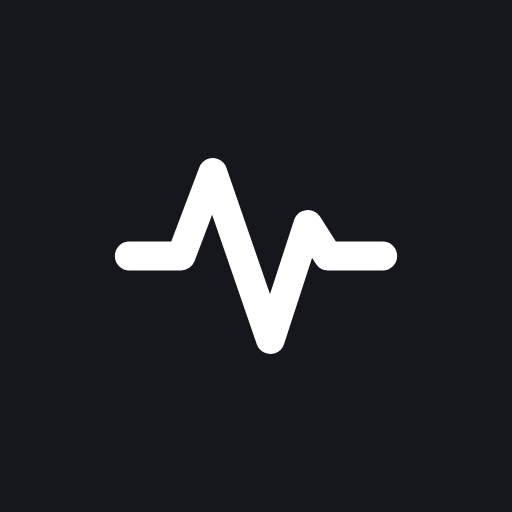
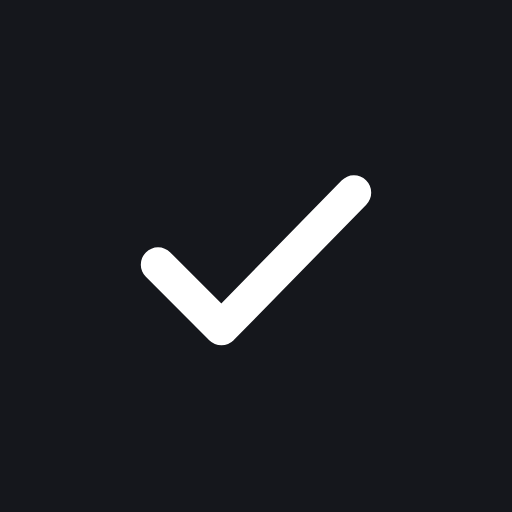
mantenimiento: the maintenance app is now Esmero, at esmero.dosbuhos.com
Eric's call: "Pulso" goes to the reservations and sales app. Same Worker, database and data; new name, check-mark
icon, and address. pulso.dosbuhos.com is released here and picked up by the Hub for Reservaciones in the next commit.
Internal cache and outbox names follow the new name (nobody has the app installed yet).

Claude-Session: https://claude.ai/code/session_018irprYV8fJdeQv9A9bMB2q

Changed region(s): [[0.2188, 0.3125, 0.5938, 0.6875], [0.5625, 0.3438, 0.7812, 0.5312]]

diff --git a/mantenimiento/public/core.js b/mantenimiento/public/core.js
@@ -1,4 +1,4 @@
-/* Pulso, el mantenimiento de Dos Búhos — shared pieces (plain JS, no build step). The planner is in planner.js, the other screens in app.js and more.js. */
+/* Esmero, el mantenimiento de Dos Búhos — shared pieces (plain JS, no build step). The planner is in planner.js, the other screens in app.js and more.js. */
 'use strict';
 
 const $ = (s, el = document) => el.querySelector(s);
@@ -119,8 +119,8 @@ function dueInfo(t) {
 const tag = (name, color, extra = '') => `<span class="tag c-${esc(color || 'grey')}" ${extra}>${esc(name)}</span>`;
 // Where a pendiente is: its area, or the place someone wrote because it was not on the list.
 const areaTag = (t) => (t.area_name ? tag(t.area_name, t.area_color) : t.place ? tag(t.place, 'grey') : '');
-// The address people are sent to. On the live hosts it is always Pulso's own; anywhere else (a laptop) it is where you are.
-const APP_URL = /(^|\.)dosbuhos\.com$|\.workers\.dev$/.test(location.hostname) ? 'https://pulso.dosbuhos.com' : location.origin;
+// The address people are sent to. On the live hosts it is always Esmero's own; anywhere else (a laptop) it is where you are.
+const APP_URL = /(^|\.)dosbuhos\.com$|\.workers\.dev$/.test(location.hostname) ? 'https://esmero.dosbuhos.com' : location.origin;
 const avatar = (name, cls = '') => `<span class="av ${cls}" aria-hidden="true">${esc(initials(name))}</span>`;
 // Facts that sit side by side (a phone and an email): each in its own span, spaced by the row.
 const bits = (arr) => arr.filter(Boolean).map((x) => `<span>${esc(x)}</span>`).join('');
@@ -167,7 +167,7 @@ async function api(method, path, data) {
   }
   let out = {};
   try { out = await res.json(); } catch { /* empty */ }
-  if (method === 'GET' && res.ok) { OFF.seen(res.headers.get('x-pulso-offline') === '1'); out = OFF.overlay(path, out); }
+  if (method === 'GET' && res.ok) { OFF.seen(res.headers.get('x-esmero-offline') === '1'); out = OFF.overlay(path, out); }
   if (res.status === 401 && path !== '/enter') {
     S.user = null;
     showEnter();
@@ -492,7 +492,7 @@ function drawNav(tab) {
     NAV.className = 'nav dtop';
     NAV.innerHTML = `<div class="brandrow">
         ${cal ? `<button type="button" class="ibtn" data-go="panel" aria-pressed="${!!P.panel}" aria-label="${lists}" title="${lists}">${ic('side')}</button>` : ''}
-        <a class="dbrand" href="#/" data-tab aria-label="Pulso: ir a hoy">${ic('pulse')}<span>Pulso</span></a></div>
+        <a class="dbrand" href="#/" data-tab aria-label="Esmero: ir a hoy">${ic('esmero')}<span>Esmero</span></a></div>
       <div class="zoom" role="group" aria-label="Vista">
         <a href="#/" data-tab ${tab === 'dia' ? 'aria-current="page"' : ''}>Día</a><a href="#/semana" data-tab ${tab === 'semana' ? 'aria-current="page"' : ''}>Semana</a><a href="#/mes" data-tab ${tab === 'mes' ? 'aria-current="page"' : ''}>Mes</a></div>
       ${cal ? `<div class="steps"><button type="button" class="ibtn" data-step="-1" aria-label="${unit} anterior">${ic('back')}</button>

diff --git a/mantenimiento/public/index.html b/mantenimiento/public/index.html
@@ -9,15 +9,15 @@
   <meta name="color-scheme" content="light dark">
   <meta name="mobile-web-app-capable" content="yes">
   <meta name="apple-mobile-web-app-capable" content="yes">
-  <meta name="apple-mobile-web-app-title" content="Pulso">
+  <meta name="apple-mobile-web-app-title" content="Esmero">
   <meta name="apple-mobile-web-app-status-bar-style" content="default">
   <meta name="format-detection" content="telephone=no">
-  <title>Pulso | Dos Búhos</title>
+  <title>Esmero | Dos Búhos</title>
   <link rel="manifest" href="/manifest.webmanifest">
   <link rel="icon" href="/icon.svg" type="image/svg+xml">
   <link rel="icon" href="/icon-192.png" sizes="192x192" type="image/png">
   <link rel="apple-touch-icon" href="/icon-180.png">
-  <link rel="stylesheet" href="/app.css?v=32">
+  <link rel="stylesheet" href="/app.css?v=33">
   <link rel="preload" href="/fonts/geist-500.woff2" as="font" type="font/woff2" crossorigin>
   <link rel="preload" href="/fonts/geist-700.woff2" as="font" type="font/woff2" crossorigin>
 </head>
@@ -34,7 +34,7 @@
       <symbol id="i-grid" viewBox="0 0 24 24"><rect x="4" y="4" width="6.5" height="6.5" rx="1.5"/><rect x="13.5" y="4" width="6.5" height="6.5" rx="1.5"/><rect x="4" y="13.5" width="6.5" height="6.5" rx="1.5"/><rect x="13.5" y="13.5" width="6.5" height="6.5" rx="1.5"/></symbol>
       <symbol id="i-inbox" viewBox="0 0 24 24"><path d="M22 12h-6l-2 3h-4l-2-3H2"/><path d="M5.5 5.1 2 12v6a2 2 0 0 0 2 2h16a2 2 0 0 0 2-2v-6l-3.5-6.9A2 2 0 0 0 16.8 4H7.2a2 2 0 0 0-1.7 1.1z"/></symbol>
       <symbol id="i-side" viewBox="0 0 24 24"><rect x="3" y="4" width="18" height="16" rx="2.5"/><path d="M9 4v16"/></symbol>
-      <symbol id="i-pulse" viewBox="0 0 24 24"><path d="M2 12h4l2.5-6.5 4.5 13 3-9 1.5 2.5H22"/></symbol>
+      <symbol id="i-esmero" viewBox="0 0 24 24"><path d="M4 12.5l5 5L20 6.5"/></symbol>
       <symbol id="i-minus" viewBox="0 0 24 24"><path d="M5 12h14"/></symbol>
       <symbol id="i-plus" viewBox="0 0 24 24"><path d="M5 12h14M12 5v14"/></symbol>
       <symbol id="i-x" viewBox="0 0 24 24"><path d="M18 6 6 18M6 6l12 12"/></symbol>
@@ -79,10 +79,10 @@
       <symbol id="i-shield" viewBox="0 0 24 24"><path d="M12 22s8-4 8-10V5l-8-3-8 3v7c0 6 8 10 8 10z"/></symbol>
     </defs>
   </svg>
-  <script src="/core.js?v=32"></script>
-  <script src="/offline.js?v=32"></script>
-  <script src="/app.js?v=32"></script>
-  <script src="/planner.js?v=32"></script>
-  <script src="/more.js?v=32"></script>
+  <script src="/core.js?v=33"></script>
+  <script src="/offline.js?v=33"></script>
+  <script src="/app.js?v=33"></script>
+  <script src="/planner.js?v=33"></script>
+  <script src="/more.js?v=33"></script>
 </body>
 </html>

diff --git a/mantenimiento/public/sw.js b/mantenimiento/public/sw.js
@@ -1,16 +1,16 @@
-/* Pulso — service worker. It lets the app open and be read with no signal (Adrián's garden has little):
+/* Esmero — service worker. It lets the app open and be read with no signal (Adrián's garden has little):
    - the app itself (page, styles, scripts, fonts, icons) is kept on the phone and served from there;
    - every GET to /api goes to the network first and, when there is no answer in a few seconds, gets the last copy kept;
-     a copy served that way carries `x-pulso-offline: 1` so the page can say it is showing what it had;
+     a copy served that way carries `x-esmero-offline: 1` so the page can say it is showing what it had;
    - photos never change once uploaded (each has its own id), so once seen they are served from the phone.
    Writes (reports, changes, notes, photos) are not handled here: the page keeps them in its outbox (offline.js) and
    sends them when there is signal. Bump V with the ?v= in index.html. */
-const V = 'pulso-32';
-const SHELL = ['/', '/app.css?v=32', '/core.js?v=32', '/offline.js?v=32', '/app.js?v=32', '/planner.js?v=32', '/more.js?v=32',
+const V = 'esmero-33';
+const SHELL = ['/', '/app.css?v=33', '/core.js?v=33', '/offline.js?v=33', '/app.js?v=33', '/planner.js?v=33', '/more.js?v=33',
   '/fonts/geist-400.woff2', '/fonts/geist-500.woff2', '/fonts/geist-600.woff2', '/fonts/geist-700.woff2',
   '/logo-word.png', '/icon.svg', '/icon-192.png', '/manifest.webmanifest'];
-const API = 'pulso-api';      // the last answer to each GET, kept across versions
-const PHOTOS = 'pulso-photos';
+const API = 'esmero-api';      // the last answer to each GET, kept across versions
+const PHOTOS = 'esmero-photos';
 const WAIT_MS = 6000;         // a weak signal: after this long, show what we have
 
 self.addEventListener('install', (e) => {
@@ -18,7 +18,7 @@ self.addEventListener('install', (e) => {
 });
 self.addEventListener('activate', (e) => {
   e.waitUntil(caches.keys()
-    .then((ks) => Promise.all(ks.filter((k) => k.startsWith('pulso-') && ![V, API, PHOTOS].includes(k)).map((k) => caches.delete(k))))
+    .then((ks) => Promise.all(ks.filter((k) => k.startsWith('esmero-') && ![V, API, PHOTOS].includes(k)).map((k) => caches.delete(k))))
     .then(() => self.clients.claim()));
 });
 
@@ -32,7 +32,7 @@ async function fromCache(cacheName, req) {
   const hit = await (await caches.open(cacheName)).match(req);
   if (!hit) return null;
   const h = new Headers(hit.headers);
-  h.set('x-pulso-offline', '1');
+  h.set('x-esmero-offline', '1');
   return new Response(hit.body, { status: hit.status, headers: h });
 }
 

diff --git a/mantenimiento/public/app.js b/mantenimiento/public/app.js
@@ -1,4 +1,4 @@
-/* Pulso — entering, what you can do to a pendiente, its page, reporting, what is done, search. Needs core.js; the planner is in planner.js. */
+/* Esmero — entering, what you can do to a pendiente, its page, reporting, what is done, search. Needs core.js; the planner is in planner.js. */
 'use strict';
 
 // ---------- entering: sign up once per phone, no PIN, no approval ----------
@@ -10,7 +10,7 @@ function showEnter() {
   const me = store('mt_me') || {};
   APP.innerHTML = `<div class="enter">
     <img class="logo" src="/logo-word.png" alt="Dos Búhos" width="183" height="40">
-    <h1>Pulso</h1>
+    <h1>Esmero</h1>
     <p class="lead">El mantenimiento de Dos Búhos. Regístrate una sola vez en este teléfono; después entras directo.</p>
     <form id="en-form" novalidate>
       ${fInput('en-name', 'Tu nombre y apellido', { value: me.name, placeholder: 'Ej. Lupita Ramírez', max: 60, attrs: 'autocomplete="name" autocapitalize="words" enterkeyhint="next"' })}
@@ -565,7 +565,7 @@ async function viewReported(id) {
     <p class="lead">${esc(t.title)}</p>
     ${t.id < 0 ? '<p class="pendmsg">Sin señal: quedó guardado en el teléfono y se enviará solo cuando haya internet.</p>' : ''}
     <p class="small">${t.id < 0 ? '' : `Es el pendiente #${t.id}. `}${t.due_date ? `Quedó ${esc(dueInfo(t).text.toLowerCase())}.` : 'Está en la Bandeja, sin día todavía.'} ${t.provider_id ? `Lo tiene ${esc(first(t.provider_name))}.` : 'Falta asignarlo.'}</p>
-    ${tell ? `<a class="b block lg wa" target="_blank" rel="noopener" href="${waHref(co.phone, taskMsg(t, `Hola ${first(co.name)}, reporté esto en Pulso:`))}">${ic('wa')}Avisar a ${esc(first(co.name))} por WhatsApp</a>` : ''}
+    ${tell ? `<a class="b block lg wa" target="_blank" rel="noopener" href="${waHref(co.phone, taskMsg(t, `Hola ${first(co.name)}, reporté esto en Esmero:`))}">${ic('wa')}Avisar a ${esc(first(co.name))} por WhatsApp</a>` : ''}
     <a class="b block lg ${tell ? 'tonal' : ''}" href="#/p/${t.id}">Ver el reporte</a>
     <a class="b block lg tonal" href="#/nuevo">${ic('plus')}Reportar otro</a>
     <a class="b block lg plain" href="${t.due_date ? '#/' : '#/bandeja'}">${t.due_date ? 'Ir al día de hoy' : 'Ir a la Bandeja'}</a>

diff --git a/mantenimiento/public/more.js b/mantenimiento/public/more.js
@@ -1,4 +1,4 @@
-/* Pulso — Preventivo, Equipos, Contactos, Cuenta, and the router. Needs core.js, app.js and planner.js. */
+/* Esmero — Preventivo, Equipos, Contactos, Cuenta, and the router. Needs core.js, app.js and planner.js. */
 'use strict';
 
 // ---------- Preventivo: the year, month by month ----------
@@ -553,7 +553,7 @@ async function viewContactoForm(id) {
 
 // ---------- Cuenta ----------
 const appLink = () => APP_URL + '/';
-const inviteText = () => `Esto es Pulso, donde llevamos el mantenimiento de Dos Búhos. Para reportar algo que no sirve o darle seguimiento, entra aquí y regístrate con tu nombre y tu WhatsApp (se hace una sola vez):\n${appLink()}`;
+const inviteText = () => `Esto es Esmero, donde llevamos el mantenimiento de Dos Búhos. Para reportar algo que no sirve o darle seguimiento, entra aquí y regístrate con tu nombre y tu WhatsApp (se hace una sola vez):\n${appLink()}`;
 function viewCuenta() {
   UI.view = 'cuenta';
   const u = S.user;
@@ -811,7 +811,7 @@ async function start() {
     await loadBoot();
     route();
   } catch (e) {
-    APP.innerHTML = `<div class="enter"><img class="logo" src="/logo-word.png" alt="Dos Búhos" width="183" height="40"><h1>Pulso</h1>
+    APP.innerHTML = `<div class="enter"><img class="logo" src="/logo-word.png" alt="Dos Búhos" width="183" height="40"><h1>Esmero</h1>
       <p class="lead">${esc(e.message)}</p><button class="b block lg" onclick="location.reload()">${ic('refresh')}Volver a intentar</button></div>`;
   }
 }

diff --git a/mantenimiento/public/offline.js b/mantenimiento/public/offline.js
@@ -1,4 +1,4 @@
-/* Pulso — working without signal (Adrián's garden has little).
+/* Esmero — working without signal (Adrián's garden has little).
    Reading: sw.js keeps the app and the last answer to every GET on the phone; a kept answer comes back marked and the
    page says "Sin señal" with how much is waiting to go out.
    Writing: a report, a change to a pendiente, a note or a photo made with no signal goes to an outbox kept on the phone
@@ -19,7 +19,7 @@ const OFF = (() => {
   const open = () => new Promise((resolve) => {
     if (db) return resolve(db);
     let r;
-    try { r = indexedDB.open('pulso', 1); } catch { return resolve(null); }
+    try { r = indexedDB.open('esmero', 1); } catch { return resolve(null); }
     r.onupgradeneeded = () => r.result.createObjectStore('out', { keyPath: 'k', autoIncrement: true });
     r.onsuccess = () => { db = r.result; resolve(db); };
     r.onerror = () => resolve(null);       // private mode and the like: the outbox lives in memory only

diff --git a/mantenimiento/public/planner.js b/mantenimiento/public/planner.js
@@ -1,4 +1,4 @@
-/* Pulso — the planner. The day and the week with their hours, the month as a calendar, the lists you plan from (Bandeja,
+/* Esmero — the planner. The day and the week with their hours, the month as a calendar, the lists you plan from (Bandeja,
    Atrasados, Esta semana, Todo, one per priority), and the sheets that go with them: one pendiente, Contactos, the menu.
    It is laid out the way Horizonte is: lists on the left and hours on the right; on a phone, the day first and a ribbon
    of views. Drag a pendiente onto a day and an hour to plan it; on a phone, hold it. Needs core.js and app.js. */

diff --git a/mantenimiento/public/app.css b/mantenimiento/public/app.css
@@ -1,4 +1,4 @@
-/* Pulso, el mantenimiento de Dos Búhos.
+/* Esmero, el mantenimiento de Dos Búhos.
    Ink on white, one family (Geist, the same as Horizonte), flat lists ruled with hairlines.
    Colour is kept for state: red is late, amber is today or waiting, green is done. The 12 area colours are the only others.
    The shell is Horizonte's: a ribbon of views and a floating + on a phone, one bar along the top on a wide screen.

diff --git a/mantenimiento/test/e2e.py b/mantenimiento/test/e2e.py
@@ -34,7 +34,7 @@ with sync_playwright() as p:
     # ---------- 1. sign up ----------
     c = ctx(); pg = c.new_page(); watch(pg)
     pg.goto(BASE + '/#/p/9')                       # deep link while signed out
-    expect(pg.locator('.enter h1')).to_have_text('Pulso')
+    expect(pg.locator('.enter h1')).to_have_text('Esmero')
     pg.click('#en-go'); expect(pg.locator('#en-err')).to_contain_text('nombre')
     pg.fill('#en-phone', '415 555 0199'); pg.click('#en-go'); expect(pg.locator('#en-err')).to_have_text('Escribe tu nombre y apellido')   # new phone, no name
     pg.fill('#en-name', 'Rosa Méndez'); pg.fill('#en-phone', '415 12'); pg.click('#en-go')

diff --git a/mantenimiento/test/offline.py b/mantenimiento/test/offline.py
@@ -1,4 +1,4 @@
-"""Pulso with no signal: python3 test/offline.py (after seed.py, with wrangler dev running).
+"""Esmero with no signal: python3 test/offline.py (after seed.py, with wrangler dev running).
 Opens the app once with signal, cuts the signal, reloads, reports with a photo, marks one done, writes a note,
 then brings the signal back and checks that all of it reached the server."""
 import sys, os, re, json, time

diff --git a/mantenimiento/README.md b/mantenimiento/README.md
@@ -1,21 +1,21 @@
-# Pulso (Mantenimiento Dos Búhos)
+# Esmero (Mantenimiento Dos Búhos)
 
 What is broken, who has it, what is late, and what comes up through the year. Phone first, Spanish, for the whole
 team: anyone reports with a photo; Adrián assigns, postpones or hands work to an outside provider; equipment keeps
 its service record. Cloudflare Worker + D1, plain JS, no build step.
 
-- The app is called **Pulso** and lives at https://pulso.dosbuhos.com (a custom domain on this Worker, declared in
+- The app is called **Esmero** and lives at https://esmero.dosbuhos.com (a custom domain on this Worker, declared in
   `wrangler.jsonc`). The folder, the Worker (`dosbuhos-mantenimiento`) and the D1 database (`mantenimiento`) keep their
   names; https://dosbuhos-mantenimiento.dos-buhos.workers.dev keeps working. Sessions are per address, so someone who
   signed in on one signs in once more on the other.
 - Not behind the Hub: it has its own open sign-up. The Hub lists it as a link: its tile is the `apps` row with slug
-  `mantenimiento` in the Hub database, renamed there to Pulso and pointed at https://pulso.dosbuhos.com (a data change
+  `mantenimiento` in the Hub database, renamed there to Esmero and pointed at https://esmero.dosbuhos.com (a data change
   made with the D1 tool on 23 Nov 2026; nothing in `hub/` changed).
 
 ## Without signal
-The garden has little signal, so Pulso works offline (`public/sw.js` + `public/offline.js`).
+The garden has little signal, so Esmero works offline (`public/sw.js` + `public/offline.js`).
 - **Reading.** The service worker keeps the app on the phone, and the last answer to every GET (network first; after 6 s
-  with no answer, the kept copy, marked `x-pulso-offline`). Photos are kept once seen, and the photos of open pendientes are
+  with no answer, the kept copy, marked `x-esmero-offline`). Photos are kept once seen, and the photos of open pendientes are
   fetched in the background so they are there in the garden. A line at the bottom says *Sin señal* while what is shown came
   from the phone.
 - **Writing.** A report, a change to a pendiente, a note or a pendiente's photo made with no signal goes to an outbox in
@@ -44,12 +44,12 @@ phone and is in; the session lasts a year and renews on every visit.
 
 ## Screens
 
-Pulso is laid out the way Horizonte is (Eric, 23 Nov 2026): the calendar first, lists you plan from, no side menu.
+Esmero is laid out the way Horizonte is (Eric, 23 Nov 2026): the calendar first, lists you plan from, no side menu.
 
 **On a phone.** A ribbon of views along the bottom (Bandeja, Atrasados, Día, Semana, Todo) and a floating **+** to
 report. The top row of every main screen is menu · title · the phone icon (Contactos).
 
-**On a wide screen.** One bar along the top: show/hide the lists, Pulso, Día | Semana, ‹ Hoy ›, whose calendar,
+**On a wide screen.** One bar along the top: show/hide the lists, Esmero, Día | Semana, ‹ Hoy ›, whose calendar,
 Contactos, Reportar, the account. Under it the lists on the left and the hours on the right. Everything that is not
 the planner (Equipos, Preventivo, a pendiente's page, Cuenta) opens as a page under the same bar.
 

diff --git a/README.md b/README.md
@@ -6,7 +6,7 @@ Internal apps and tools for Bodega Dos Búhos.
 |---|---|
 | `hub/` | Hub: el centro de mando. Un solo inicio de sesión con Google, lanzador de todas las apps por sección, administración de personas y accesos, bitácora. Worker `hub`, D1 `hub`; las apps se sirven detrás bajo `/<slug>/`. Incluye Anuncios (`/ads/`: Google + Meta, retorno, alertas y pendientes) |
 | `huerto/` | Huerto orgánico: plan de siembra, lista semanal de Adrián, semillero, cosechas y experiencias. Página pública en Cloudflare Workers; guardar cambios pide PIN (tabla `config` en D1 `huerto`). Fuentes en `huerto/app/`; se arma con `python3 huerto/app/build.py` |
-| `mantenimiento/` | Pulso (pulso.dosbuhos.com), el mantenimiento, armado como Horizonte: abre en el día con sus horas, Bandeja de lo que falta programar, Atrasados, Semana y Todo; pendientes con foto, prioridad, día, hora y responsable (se arrastran al calendario, posponer con motivo, pasar a un externo), preventivo por año, equipos con su historial de servicio y contactos con llamada / WhatsApp. Worker `dosbuhos-mantenimiento`, D1 `mantenimiento`. Fuera del Hub: registro abierto con nombre + WhatsApp (sin PIN ni aprobación); los administradores pueden cerrarlo |
+| `mantenimiento/` | Esmero (esmero.dosbuhos.com), el mantenimiento, armado como Horizonte: abre en el día con sus horas, Bandeja de lo que falta programar, Atrasados, Semana y Todo; pendientes con foto, prioridad, día, hora y responsable (se arrastran al calendario, posponer con motivo, pasar a un externo), preventivo por año, equipos con su historial de servicio y contactos con llamada / WhatsApp. Worker `dosbuhos-mantenimiento`, D1 `mantenimiento`. Fuera del Hub: registro abierto con nombre + WhatsApp (sin PIN ni aprobación); los administradores pueden cerrarlo |
 | `wineclub/` | Club Dos Búhos: agenda de envíos del club de vinos (atrasados, hoy, próximos), historial por socio y uso de beneficios. Worker `wineclub` (+ `wineclub-staging`), D1, Cloudflare Access |
 | `cellar/` | Calendario de bodega (Cellar Target Calendar): vinos, labs, órdenes de trabajo de Excellovint, protocolos y Learn. Worker `cellar`, D1 `cellar`, Google sign-in; lee y escribe Excellovint con una cuenta de servicio. Fuente = el artifact de Claude; se arma con `python3 cellar/app/build.py` |
 | `ulula/` | Ulula: bodega por recipientes (clon del módulo Bodega de GrapeFlow para compararlo con el Cellar Tracker). Tablero por recipiente, operaciones con estancias de lotes, trazabilidad, análisis, catas. Worker `ulula`, D1 `ulula`, sin login por ahora |
